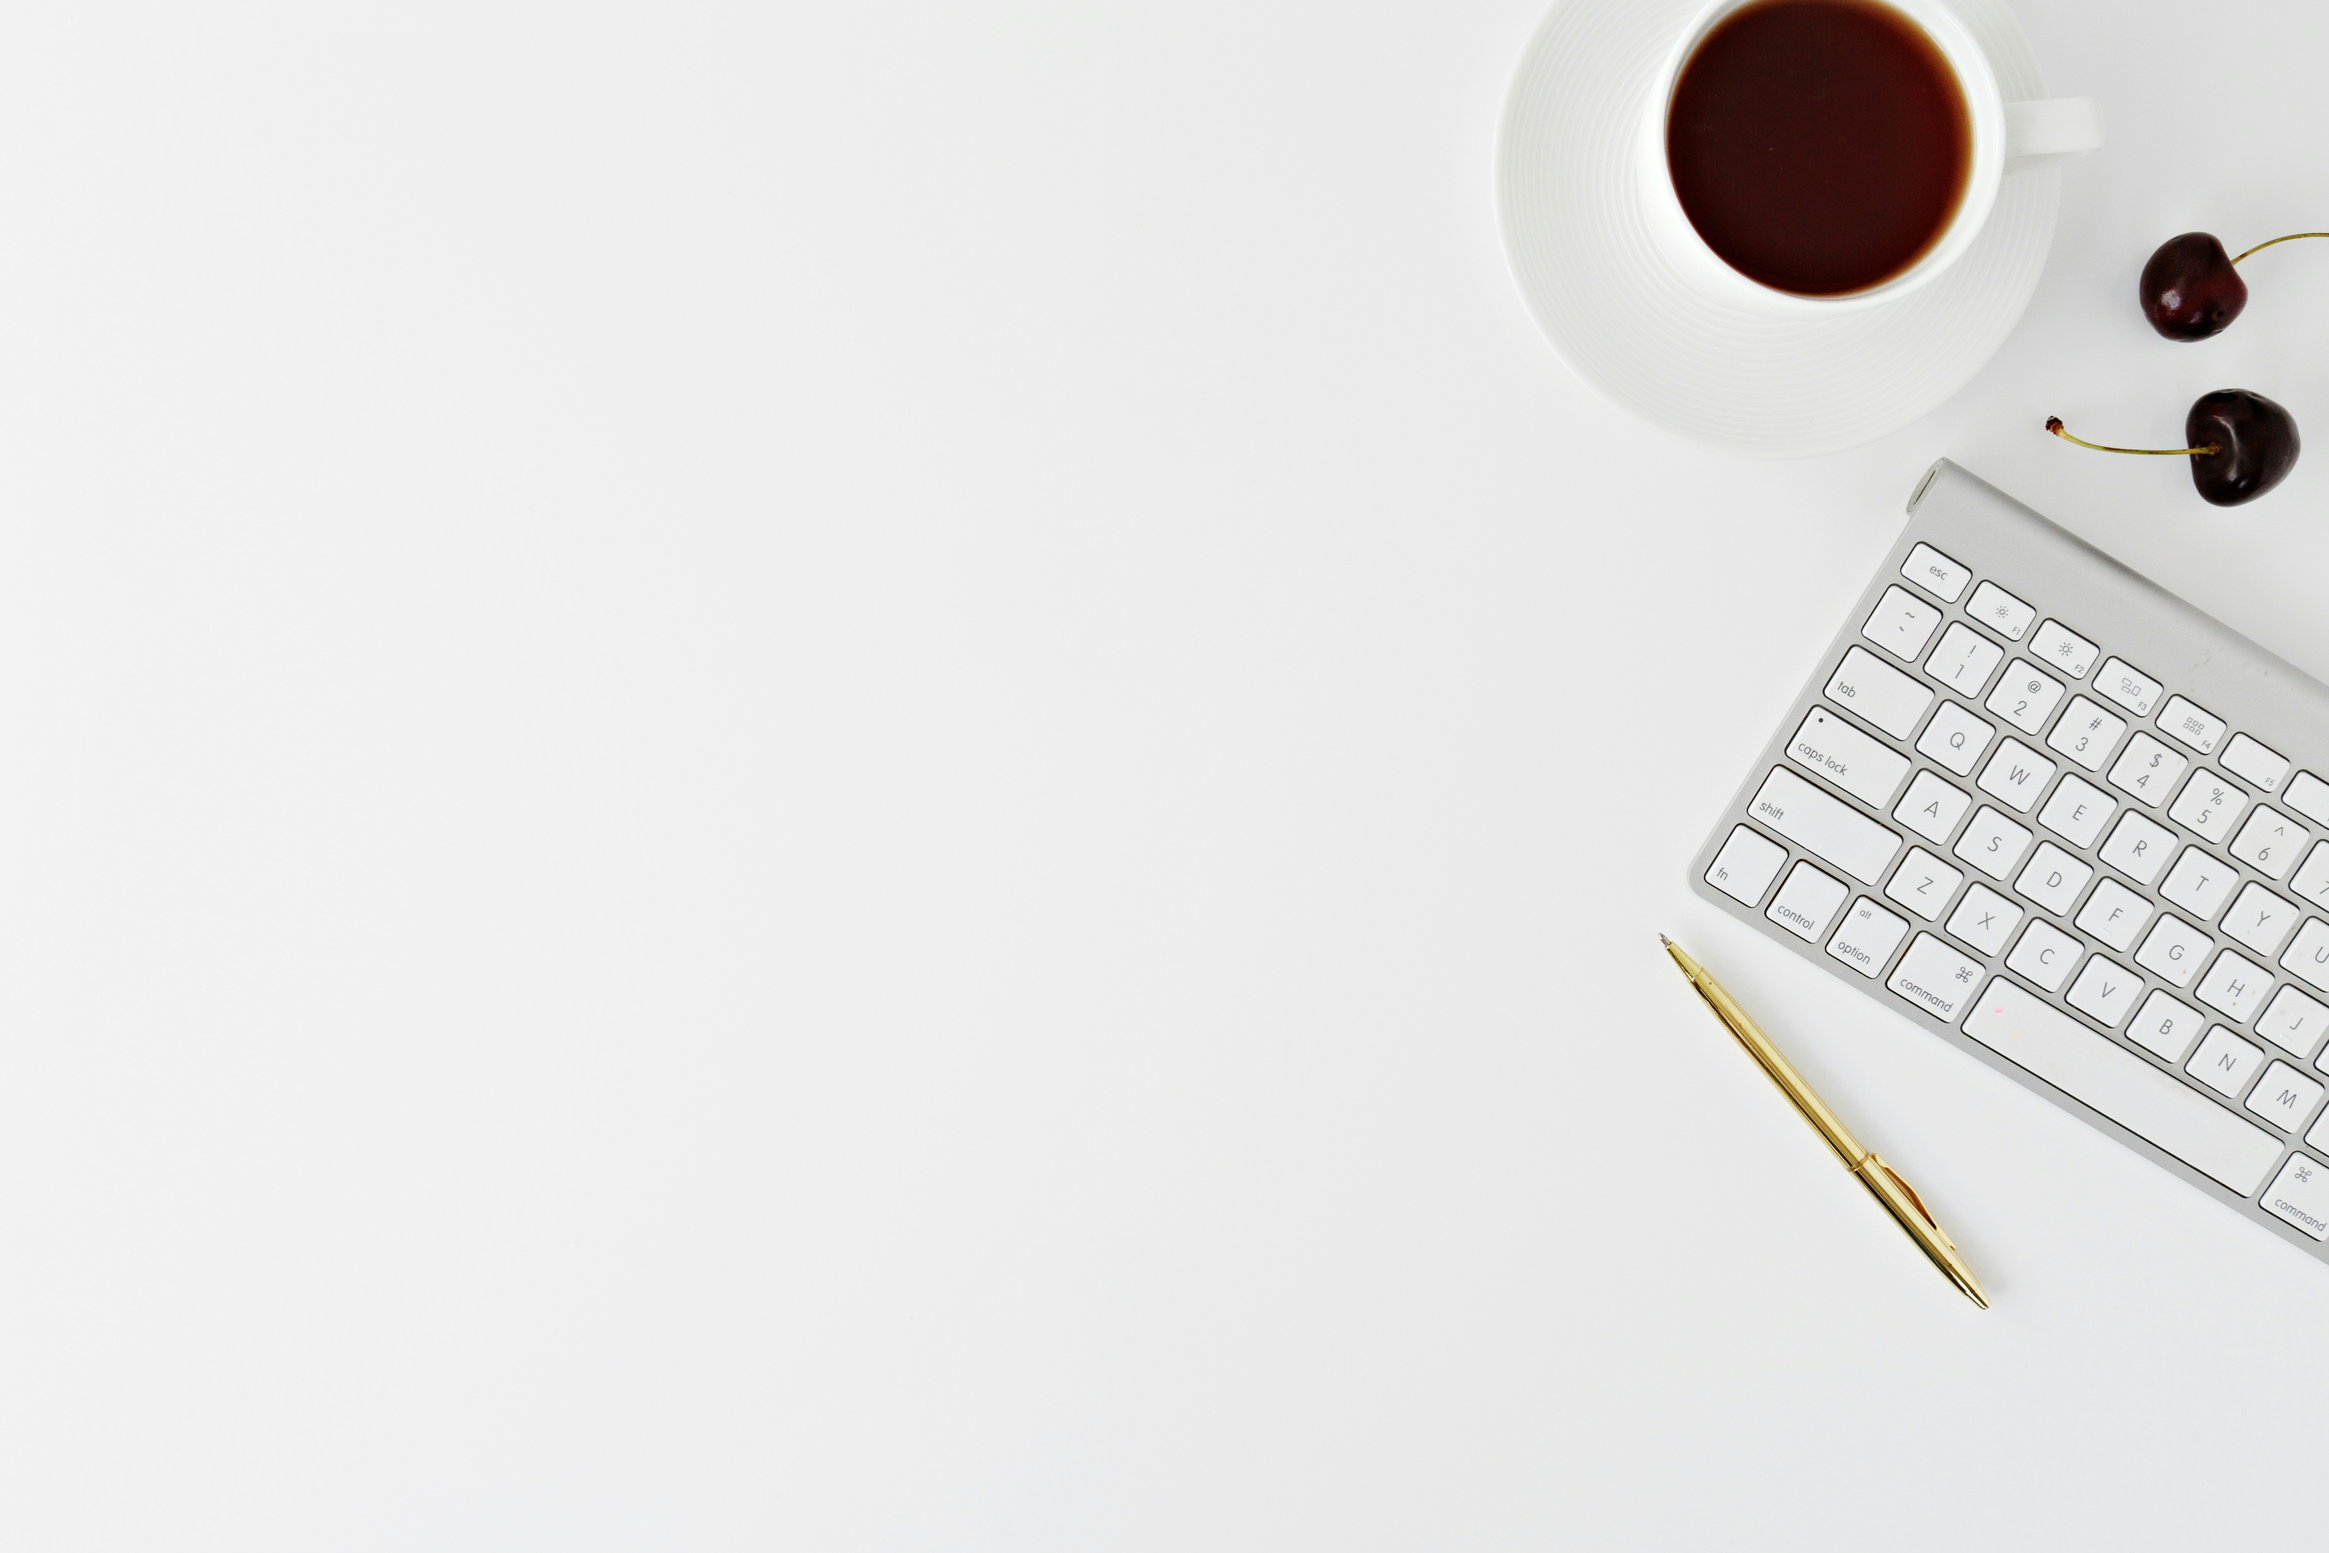
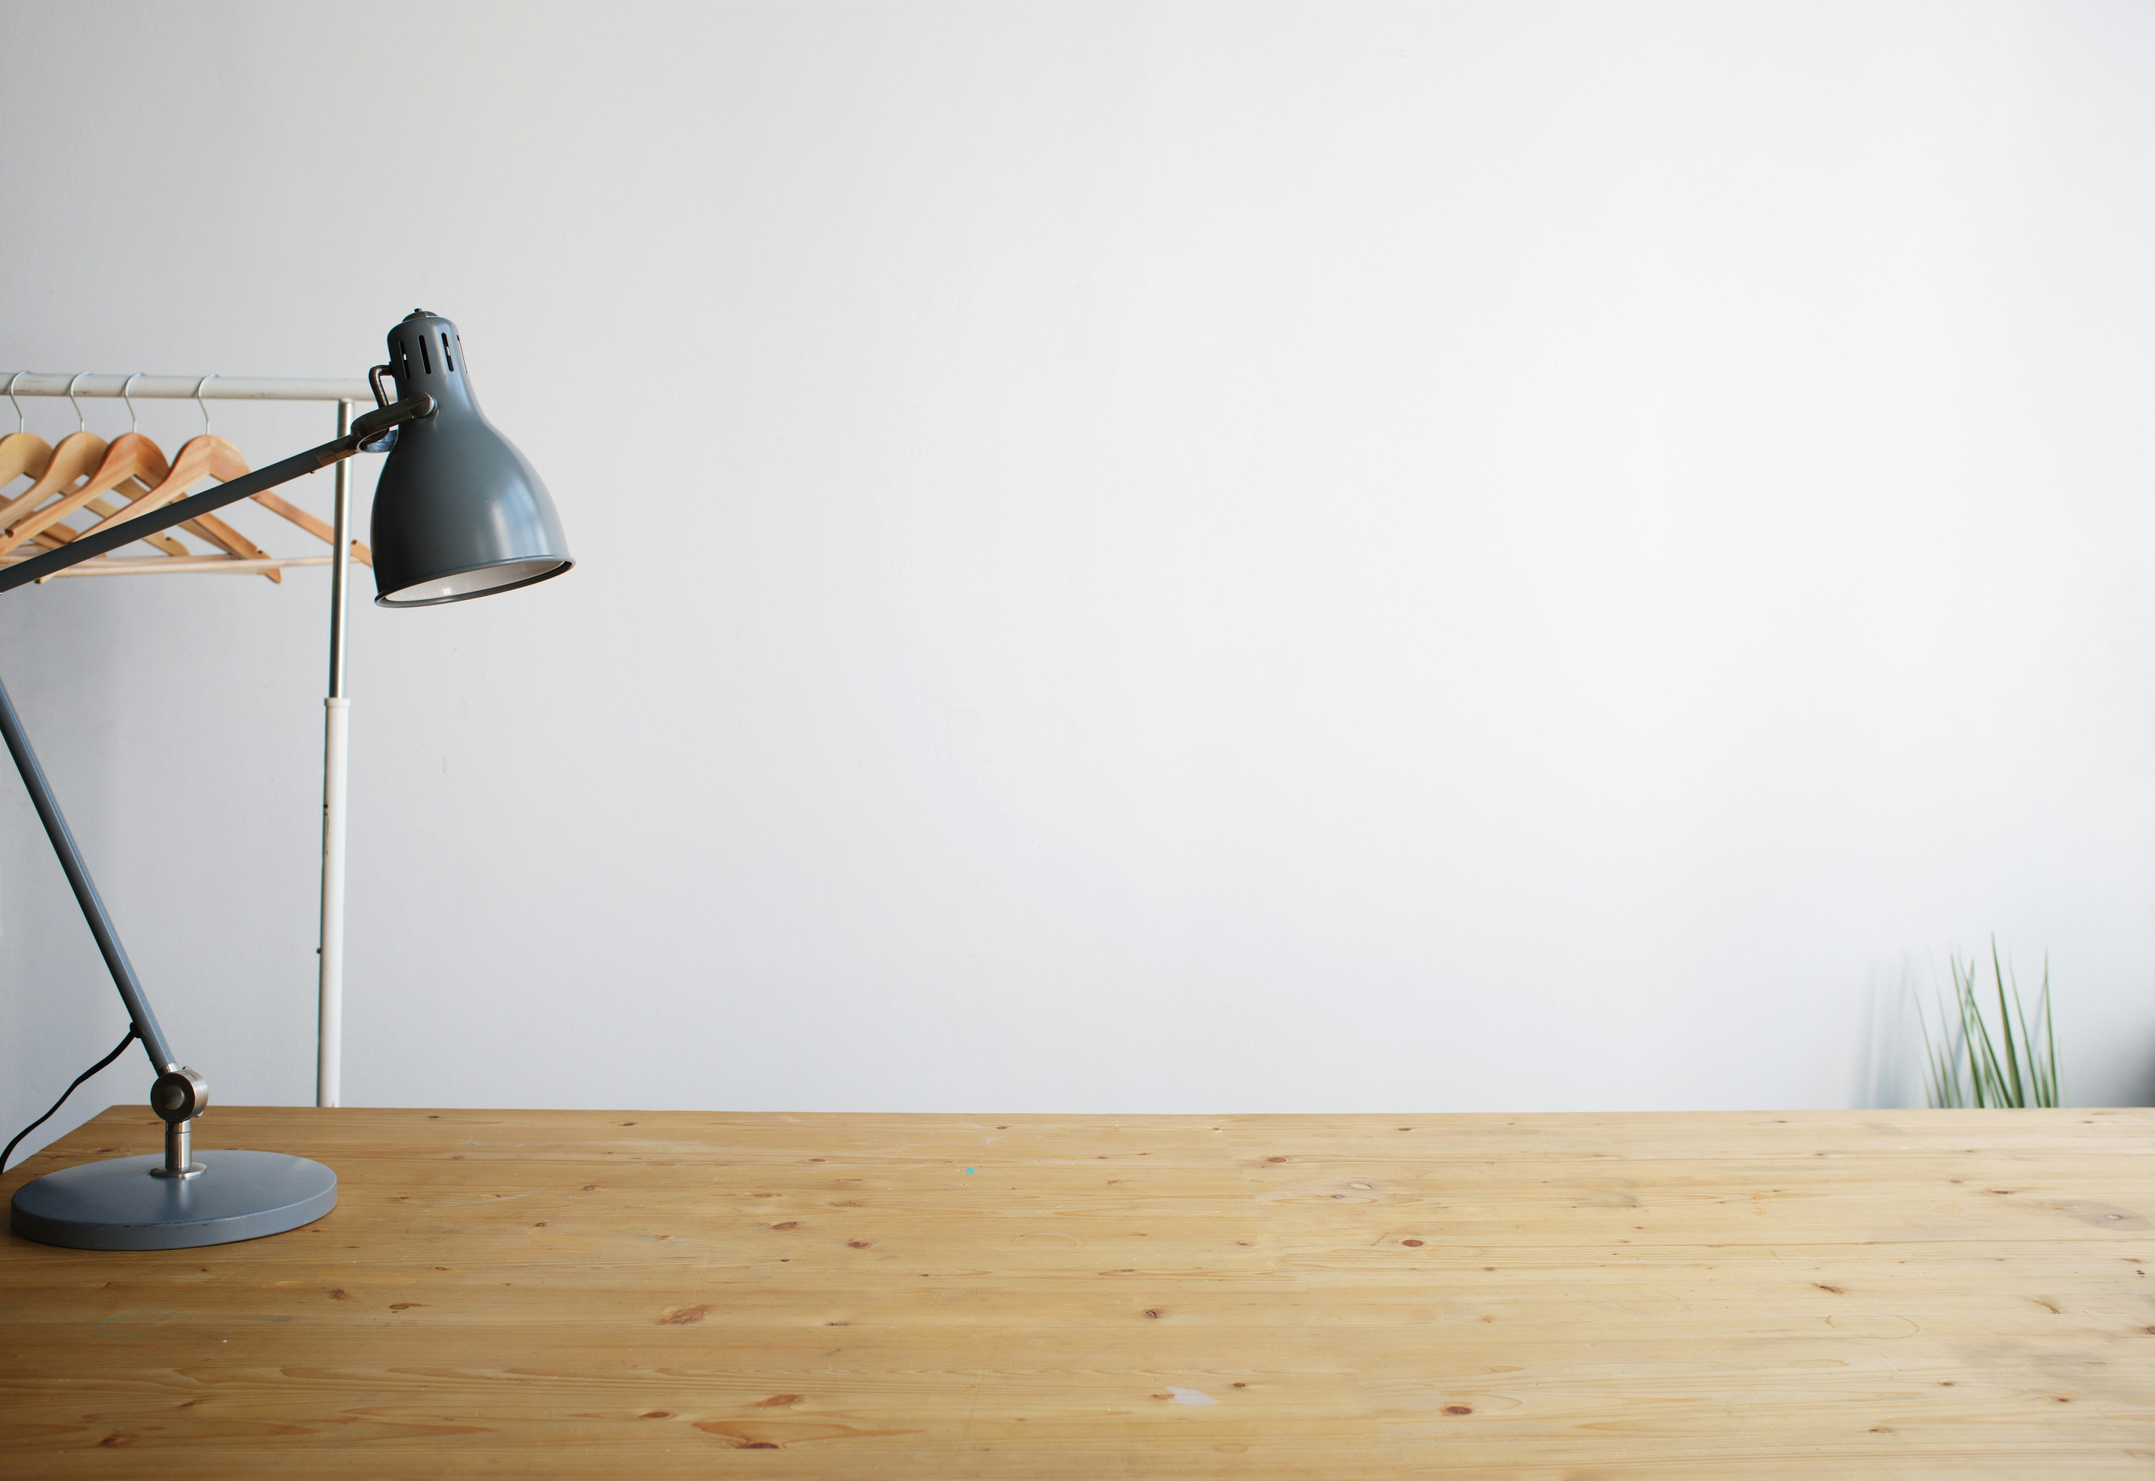
update

diff --git a/style.css b/style.css
@@ -36,21 +36,12 @@ a {
 .navbar {
     width: 100%;
     padding: 25px 7%;
-
     display: flex;
     justify-content: space-between;
     align-items: center;
+    background: transparent;
 
-    /* Slight transparency */
-    background: rgba(255, 255, 255, 0.90);
-    backdrop-filter: blur(8px);
-
-    position: sticky;
-    top: 0;
-
-    z-index: 100;
-
-    border-bottom: 1px solid #e5e5e5;
+    border-bottom: none;
 }
 
 .logo {
@@ -264,7 +255,7 @@ a {
 .projects-section {
     background: transparent;
 
-    color: white;
+    color: black;
 }
 
 .section-number {
@@ -767,10 +758,9 @@ a {
 footer {
     padding: 30px 7%;
 
-    /* Transparent so background continues */
-    background: rgba(8, 8, 8, 0.70);
+    background: transparent;
 
-    color: #aaa;
+    color: black;
 
     display: flex;
 

diff --git a/index.html b/index.html
@@ -150,9 +150,9 @@
 
         <div class="section-content">
 
-            class="section-label">
+            <p class="section-label">
                 ABOUT ME
-            
+            </p>
 
             <h2>
                 Who I Am
